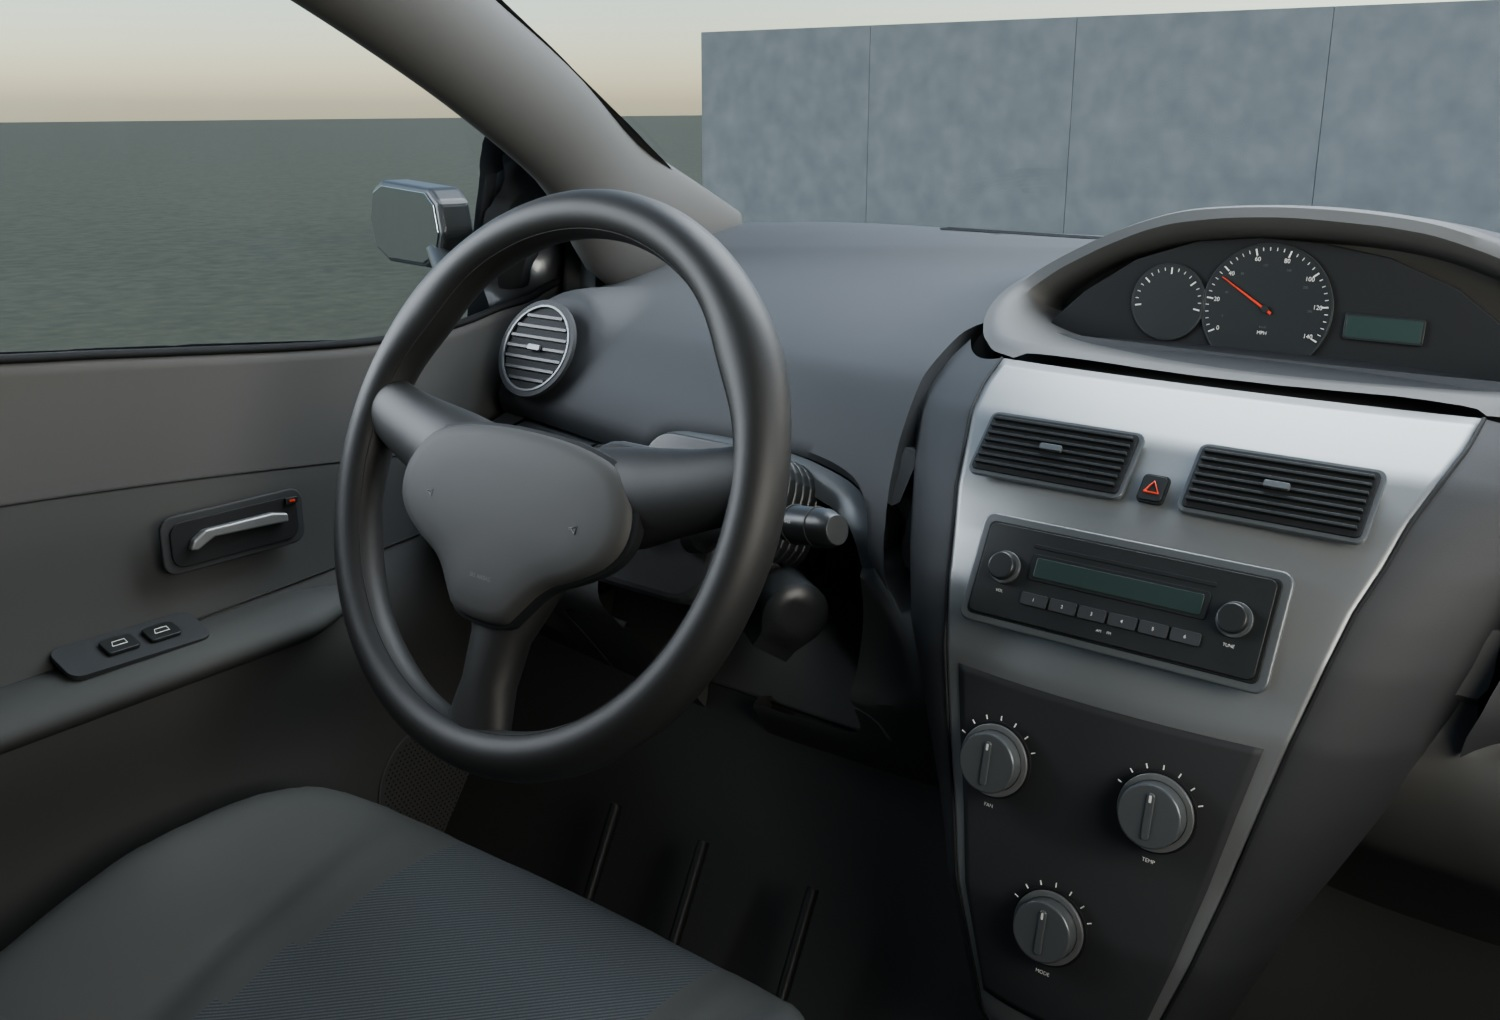
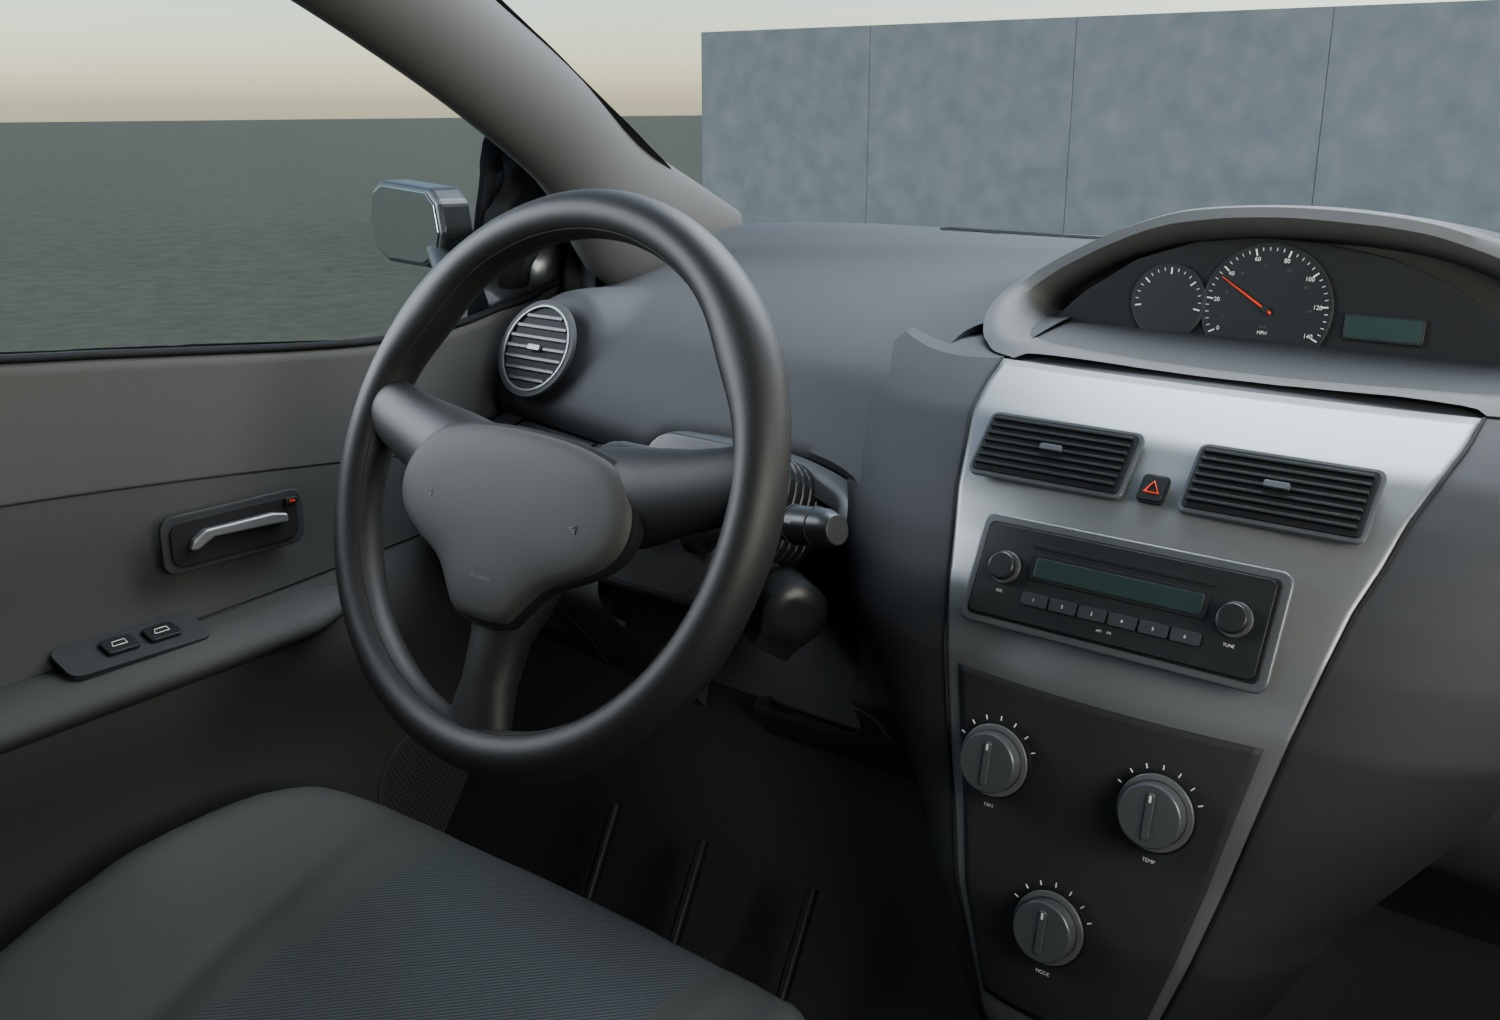
Deliver five verified cabin inspection views and the editable scene rebuild

diff --git a/PROGRESS.md b/PROGRESS.md
@@ -1,6 +1,8 @@
 # EP02 制作进度
 
-**当前优先交付可编辑的静态驾驶舱。已使用 CCSA 精细版 v2j 重建可见内饰。56 km/h 粗网格已算完 140 ms，能量残差 6.42%，超过 5% 验收线。其余速度和视频合成暂停。**
+**可编辑的静态驾驶舱已完成，五个机位均已出图。** [同机位改模前后](out/ep02-car-speeds/cabin/driver-comparison.jpg) · [图库与重建方法](out/ep02-car-speeds/cabin/README.md)
+
+56 km/h 粗网格已算完 140 ms，最大能量残差 6.42%，超过 5% 验收线。其余速度和视频合成暂停。
 
 ## 官方模型和输入检查
 
@@ -71,11 +73,12 @@ export LD_LIBRARY_PATH="$OPENRADIOSS_PATH/extlib/hm_reader/linux64:$OPENRADIOSS_
 
 ### 56 km/h 全时程测量
 
-56 km/h 已算完 140 ms。驾驶座 CFC 60 峰值 60.66 g，碰墙后 47.30 ms 到峰，最大能量残差 6.42%。 脉冲结束 68.01 ms，首次纵向速度过零 53.90 ms。沙漏能 / 内能最大值 0.00%。持续时间按实际 139.30 ms 窗口近似。[曲线与通道](out/ep02-car-speeds/physics/)
+56 km/h 已算完 140 ms。驾驶座 CFC 60 峰值 60.66 g，碰墙后 47.30 ms 到峰，最大能量残差 6.42%。脉冲结束 68.01 ms，首次纵向速度过零 53.90 ms。全局沙漏能 / 内能最大值 0.00%。逐零件 HE 含壳单元的数值稳定阻尼，923 个通道求和后除以全局内能，最大值为 5.55%。能量残差在接触后约 53.0 ms 首次超过 5%。持续时间按实际 139.30 ms 窗口近似。[曲线与通道](out/ep02-car-speeds/physics/)
 
 ### 驾驶舱建模
 
 - 原构图直接画出了碰撞模型的支架和简化壳面，旧门板背筋、裸露轮芯、仪表空腔和脚舱开口在近景里很明显。按频道主的新优先级，先完成可编辑的驾驶舱静态场景。
[1 lines of base64/hex data omitted]
 - 展示场景保留 474 个相关原壳件和零件编号。方向盘包覆、喇叭盖、仪表、中控面板及叶片、门板外皮、手排饰件、脚舱和顶棚均可在 Blender 内单独编辑。制作中用三个机位抽查了仪表台及以下的首个可见表面，修复了旧模型里从脚舱看到路面、轮辋和清洗液壶的开口。[副驾驶方向的静态近景](out/ep02-car-speeds/cabin/passenger.jpg)
-- 工程位于 `work/cabin-model/ep02-cabin.blend`。正式 Git 分支只保存重建脚本和静帧。命令为 `bash scripts/build_ep02_cabin.sh --width 1500 --samples 40`。驾驶舱展示采用未变形状态，化妆件暂未绑定到粗网格求解历程。
+- 工程位于 `work/cabin-model/ep02-cabin.blend`。模型的重建脚本和静帧随分支交付。命令为 `bash scripts/build_ep02_cabin.sh --width 1500 --samples 40`。驾驶舱展示采用未变形状态，饰件暂未绑定到粗网格求解历程。
+- 中控两侧已延伸至原仪表台下方，补齐上沿和仪表罩接缝。已检查五张最终静帧，驾驶位为 1080×1920，中控为 1500×1275，副驾驶、方向盘和全舱为 1500×1020。独立 Blender 进程重开工程，读取到 5 台相机和 29 组共 448 个饰件对象，外部资源缺失数为 0。已实测移动和还原方向盘包覆件的网格顶点，并从重开的工程渲出驾驶位小样。[最终图库](out/ep02-car-speeds/cabin/)

diff --git a/out/ep02-car-speeds/cabin/README.md b/out/ep02-car-speeds/cabin/README.md
@@ -1,0 +1,29 @@
+# 驾驶舱静态模型
+
+![从副驾驶位置检查方向盘、门板和中控台](passenger.jpg)
+
+[同机位改模前后](driver-comparison.jpg) · [驾驶位原图](driver.jpg) · [从副驾驶看方向盘](passenger.jpg) · [全舱](overview.jpg) · [方向盘近景](wheel.jpg) · [中控近景](controls.jpg)
+
+## 打开或重建
+
+本次云端工作区中的场景保存在 `work/cabin-model/ep02-cabin.blend`。可在 Blender 中单独选择仪表、面板、拨杆、门内饰和灯光，五台检查相机已经保存。F12 使用 Cycles 渲染当前相机。
+
+在新检出的仓库根目录运行下列命令，即可下载并校验官方原包、提取几何、重建场景并生成五张照片式静帧。使用 Python 3.11 或更新版、NumPy、curl、unzip 和 Blender 4.5 LTS。设置 `BLENDER_BIN` 可指定本机 Blender。仅重建模型可在命令后加 `--views`。
+
+```bash
+bash scripts/build_ep02_cabin.sh --width 1500 --samples 40
+```
+
+## 几何和饰件
+
+| 部分 | 依据与处理 |
+| --- | --- |
+| 车体比例、玻璃、仪表台外形、座椅和相对安装位置 | CCSA 精细版 v2j，2016 年 10 月发布。原包为 940 个零件、1,488,581 个节点。场景读取 474 个相关壳零件，保留来源零件编号，部分骨架在展示视图中隐藏。 |
+| 轮缘、喇叭盖、转向柱和拨杆 | 根据官方轮缘外径、倾角和原盖位置重建外覆材料与分件线。转向盘不带品牌标识。 |
+| 仪表、中控、出风口和空调 | 表盘印刷、指针、立体风口叶片、收音机、旋钮及警示灯开关均为自建饰件。表针读取 56 km/h 求解历程的初速度并换算到 mph 刻度。音响和行程屏保持未点亮状态。 |
+| 门、脚舱和顶棚 | 门板表皮沿原件轮廓放样，补建扶手、门把手、扬声器网格、脚舱地毯、踏板、手动挡杆、遮阳板及内外后视镜。塑料纹、座椅织物、金属反射和玻璃边缘为程序材质。 |
+| 画面 | 驾驶位对照沿用旧基准的眼点、19 mm 镜头和离墙 8 m 的构图。驾驶位为 1080×1920，另四张宽 1500 像素。五张静帧均来自同一可编辑场景。 |
+
+两个有限元版本对应同一辆四门手动挡轿车。旧粗网格上仪表台有 2,760 个壳单元，精细版有 10,197 个。原方向盘为 770 和 2,756 个。两种网格都包含承力支架，因此建模时另外处理了可见表皮。饰件的轮廓、字样和表面颜色属于可编辑的近似重建，尚缺这辆样车的整舱纹理扫描。可见结构的布置还参照了 IIHS 同代美规四门车实拍。[CCSA 模型页](https://www.ccsa.gmu.edu/models/2010-toyota-yaris/) · [IIHS 车辆照片](https://www.iihs.org/ratings/vehicle/toyota/yaris-4-door-sedan/2010)
+
+当前模型处于未变形状态。原 v1l 碰撞数据单独保留，高精度饰件还未绑定到碰撞历程。原包及含车型网格的 Blender 场景保存在忽略版本控制的工作目录。感谢乔治梅森大学 CCSA 和 FHWA。[CCSA v2j 官方原包](https://media.ccsa.gmu.edu/model/2010-toyota-yaris-detailed-v2j.zip)

diff --git a/out/ep02-car-speeds/README.md b/out/ep02-car-speeds/README.md
@@ -1,6 +1,8 @@
 # 第二集交付状态
 
-官方车模已核实。56 km/h 已算完 140 ms。驾驶座 CFC 60 峰值 60.66 g，碰墙后 47.30 ms 到峰，最大能量残差 6.42%。[分段数据](physics/56kmh-checkpoints.csv) · [工具版本、来源与恢复步骤](../../PROGRESS.md)
+当前交付是可编辑的驾驶舱静态模型。驾驶位和仪表台采用同款车的 CCSA 精细版 v2j 作为几何依据。驾驶舱饰件、参考来源、静帧和本机重建命令见[模型说明](cabin/README.md)。
+
+56 km/h 粗网格工况已算完 140 ms。驾驶座 CFC 60 峰值为 60.66 g，碰墙后 47.30 ms 到峰，最大能量残差为 6.42%。能量超过验收线，其他速度待物理复核。[分段数据](physics/56kmh-checkpoints.csv) · [工具版本与恢复步骤](../../PROGRESS.md)
 
 | 56 km/h 验收项 | 公开比较值或验收线 | 本集结果 |
 | --- | --- | --- |
@@ -9,9 +11,11 @@
 | 总能量漂移 | 小于 5% | 6.42% |
 | 沙漏能 / 内能 | 小于 10% | 0.00% |
 
+全局沙漏能通道不含 QEPH 壳单元的数值稳定阻尼。另将 923 个零件的 HE 通道求和，其与全局内能的比值最高为 5.55%。壁障纵向冲量为 23.57 kN·s，能量残差在接触后约 53.0 ms 首次超过 5%。[全时程数据](physics/56kmh-history.csv) · [HE 定义](https://help.altair.com/hwsolvers/rad/topics/solvers/rad/th_part_starter_r.htm)
+
 这些公开数字是车队统计。指定车型的全宽壁障试验包括 39.8 和 56.3 km/h。拟制作的 90 和 120 km/h 均超出这组试验范围；另一车型的 90 km/h 偏置试验不能直接验证本片。详见[数据和来源](../../data/ep02-car-crash-data.md)。
 
-车速、座椅安装点加速度和网格变形均来自求解器。方向盘中心至驾驶座靠背的初始距离为 597.83 mm，19.0 ms 时为 592.77 mm。行驶振动、6 Hz 阻尼比 0.4 的头部弹簧和峰后震颤是摄影规则。道路、墙面材质和光照由 Blender 添加。当前画面仅有原模型的玻璃。
+车速、座椅安装点加速度和粗网格变形均来自求解器。方向盘中心至驾驶座靠背的初始距离为 597.83 mm，19.0 ms 时为 592.77 mm。行驶振动、6 Hz 阻尼比 0.4 的头部弹簧和峰后震颤是摄影规则。静态建模画面的道路、墙面、光照和可见饰件来自 Blender。
 
 已测量 32 条现有 ElevenLabs 片段的全频与 300 Hz 以上电平。第二集专用的车内行驶、金属压溃、玻璃碎裂和零件落地声仍缺。现有金属及玻璃片段可剪用，行驶声和落地声留空。成片的时间表、响度和手机频段电平差须用最终剪辑实测。[素材电平表](asset-levels.csv)
 
